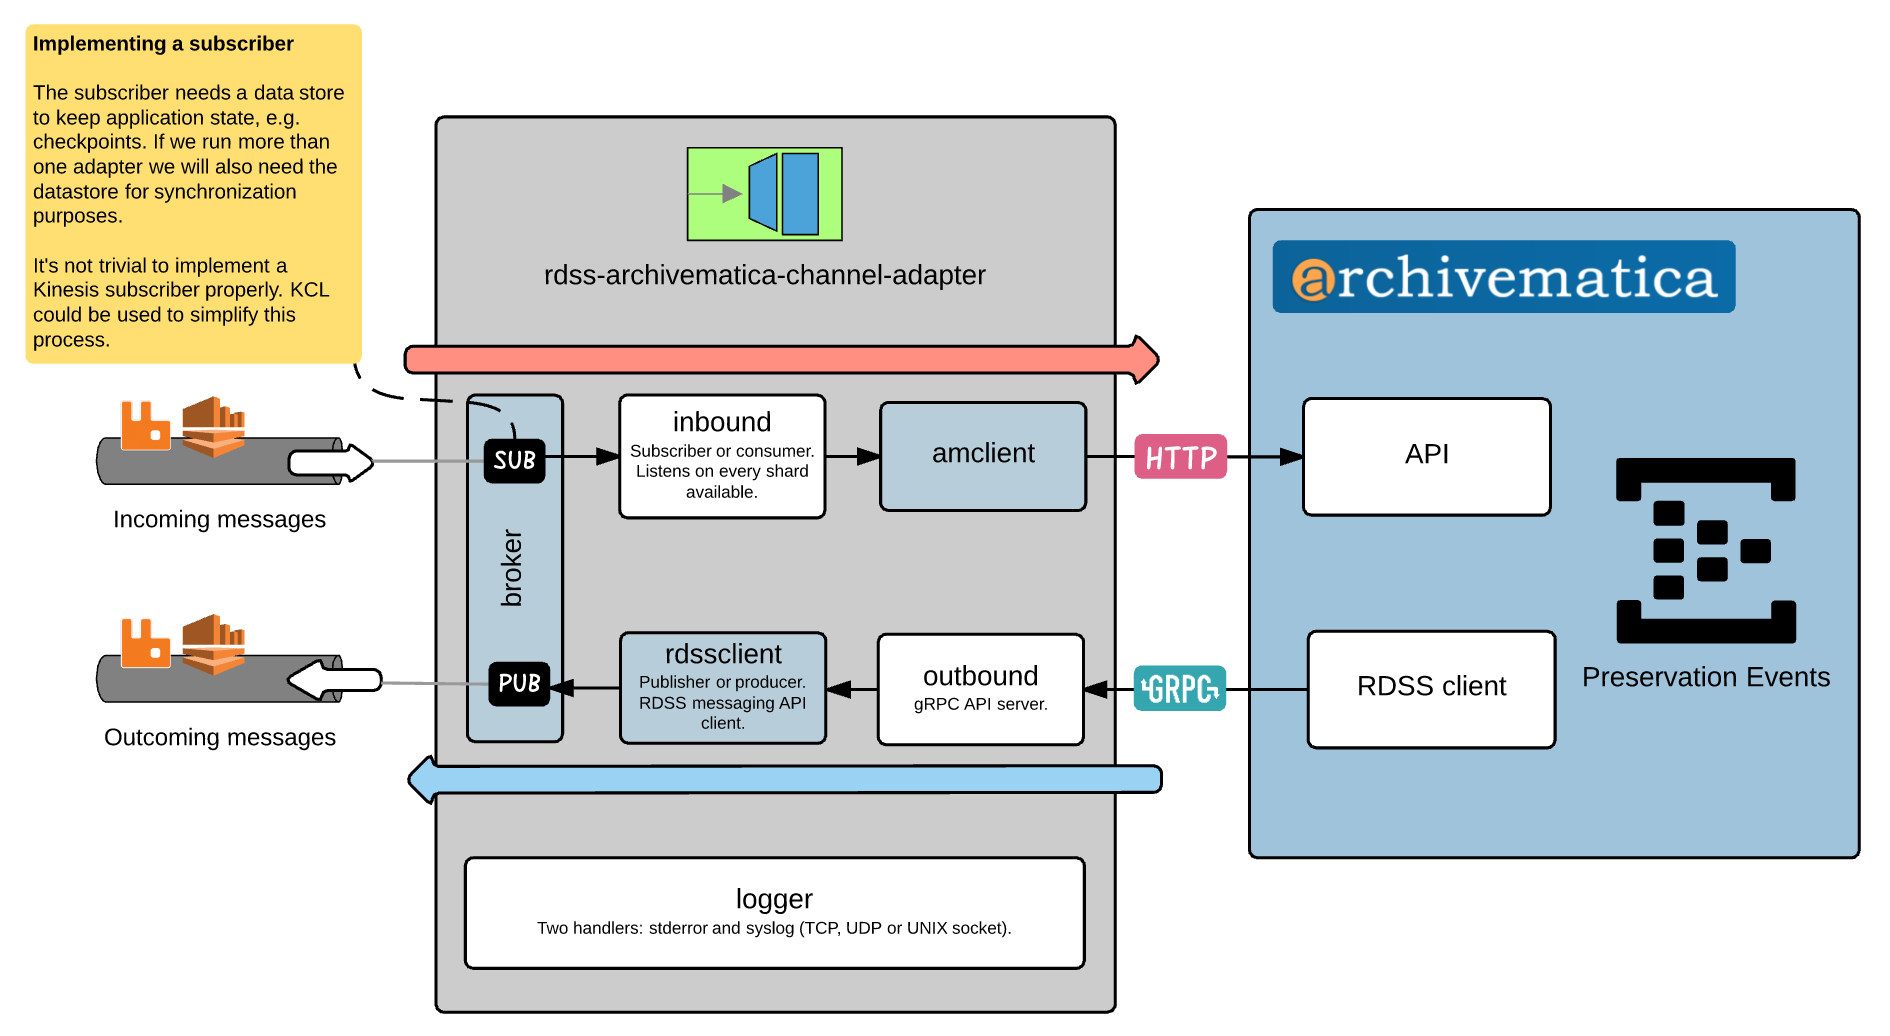
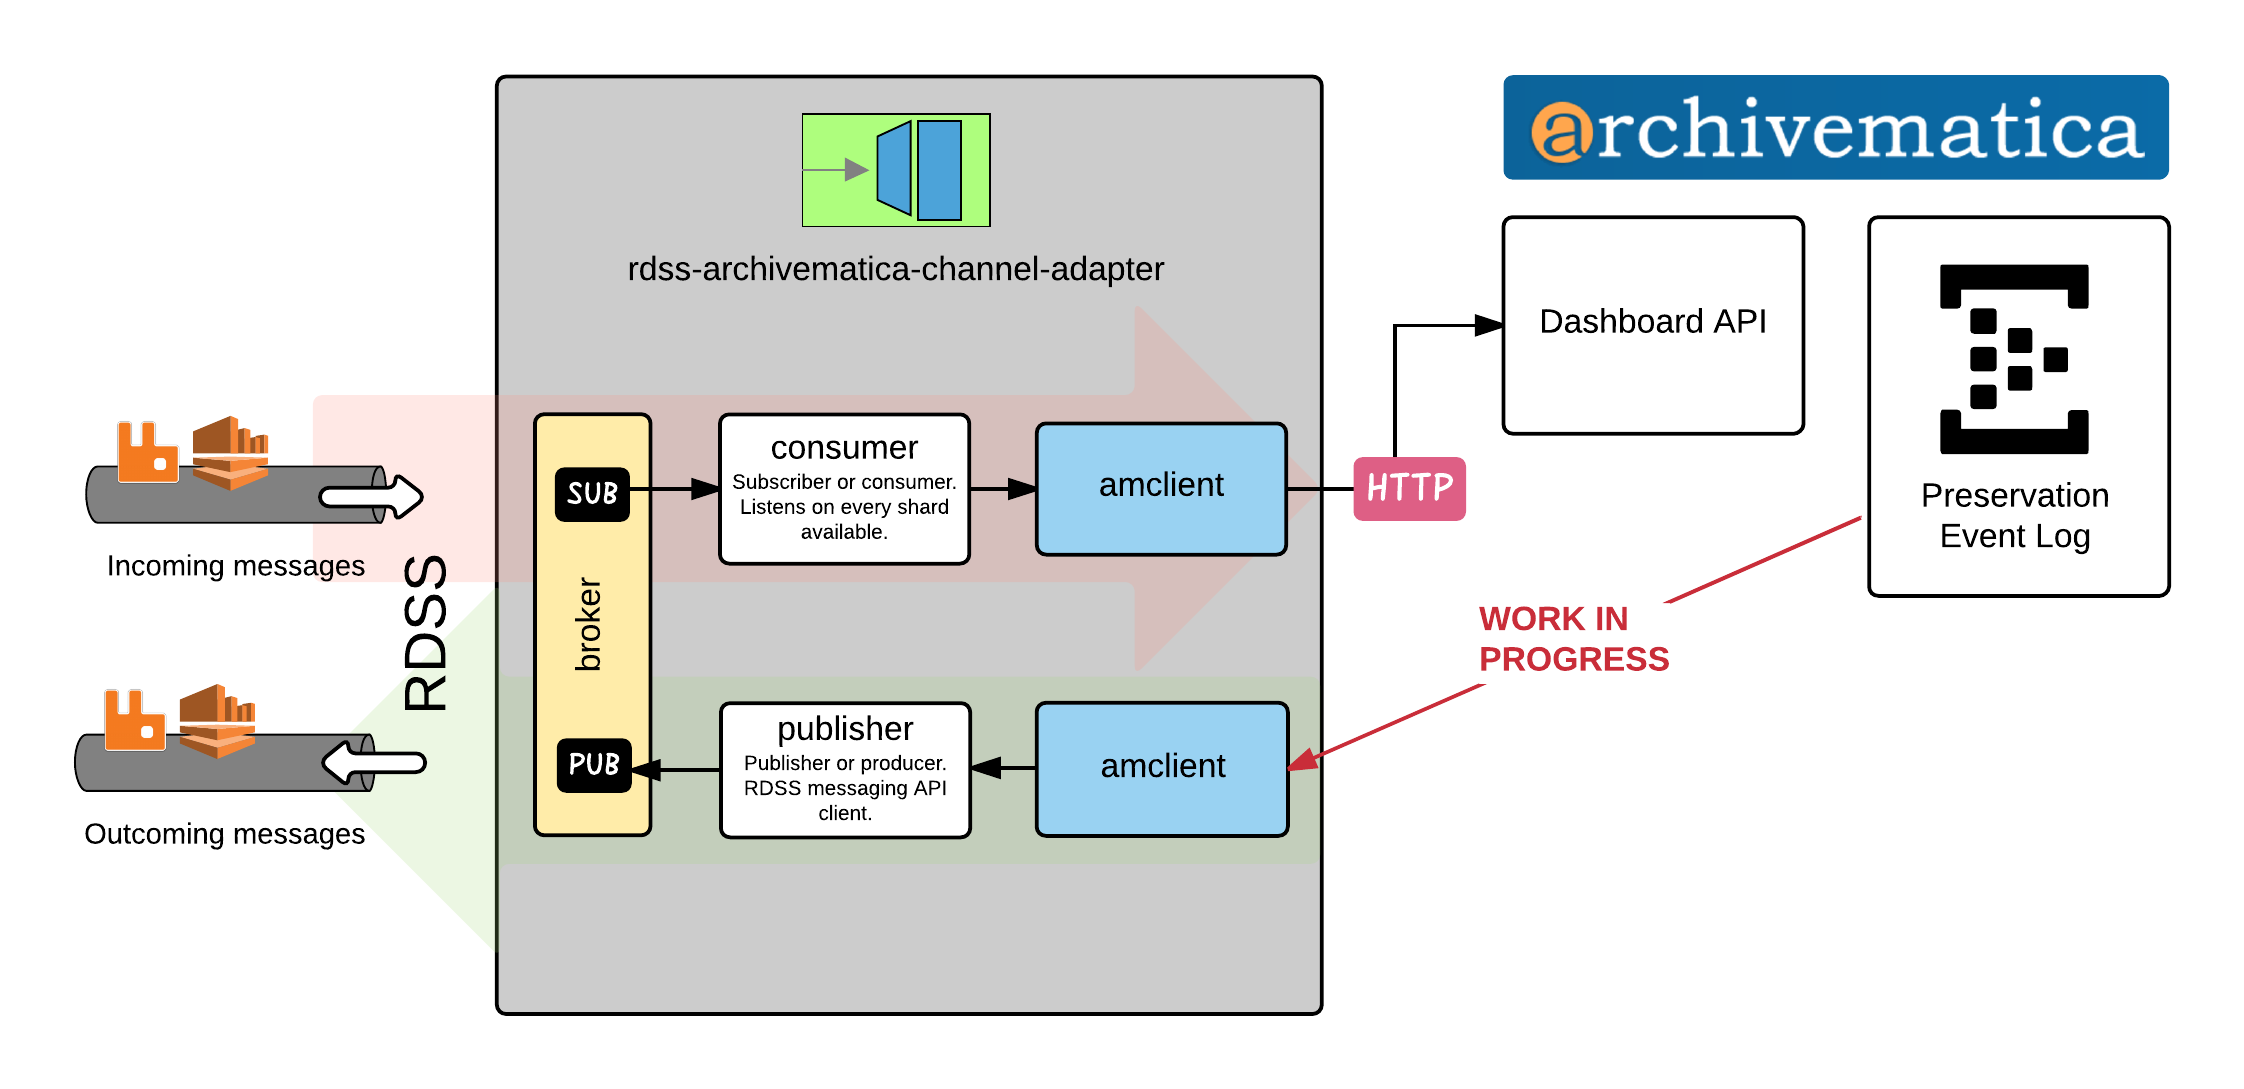
Update docs
- Add full list of configuration attributes to README file.
- Update architecture diagram.

diff --git a/cmd/root.go b/cmd/root.go
@@ -21,17 +21,17 @@ level = "INFO"
 
 [amclient]
 # URL of the Archivematica Dashboard
-# url = "https://archivematica.internal:9000"
-# user = "demo"
-# key = "eid3Aitheijoo1ohce2pho4eiDei0lah"
+url = ""
+user = ""
+key = ""
 
 [s3]
 force_path_style = false
 insecure_skip_verify = false
-# endpoint = "https://127.0.0.1:4567"
-# access_key = "..."
-# secret_key = "..."
-# region = "..."
+endpoint = ""
+access_key = ""
+secret_key = ""
+region = ""
 
 [consumer]
[1 lines of base64/hex data omitted]
@@ -39,8 +39,8 @@ archivematica_transfer_deposit_dir = "/var/archivematica/sharedDirectory/watched
 [publisher]
 listen = "0.0.0.0:8000"
 tls = false
-# tls_cert_file = "/foo.crt"
-# tls_key_file = "/foo.key"
+tls_cert_file = ""
+tls_key_file = ""
 
 [broker]
 backend = "kinesis"
@@ -54,18 +54,16 @@ error = "error"
 backend = "builtin"
 dynamodb_tls = true
 dynamodb_table = "rdss_am_messages"
-# dynamodb_endpoint = "https://127.0.0.1:4568"
-# dynamodb_region = "eu-west-2"
+dynamodb_endpoint = ""
+dynamodb_region = ""
 
 [broker.kinesis]
 app_name = "rdss_am"
 region = ""
 tls = true
-# endpoint = "https://127.0.0.1:4567"
-
-# Dynamo-specific parameters
+endpoint = ""
 tls_dynamodb = true
-# endpoint_dynamodb = "https://127.0.0.1:4568"
+endpoint_dynamodb = ""
 `
 
 var (

diff --git a/cmd/consumer/consumer.go b/cmd/consumer/consumer.go
@@ -93,10 +93,6 @@ func createBrokerClient() (*broker.Broker, error) {
 		"tls_dynamodb":      viper.GetString("broker.kinesis.tls_dynamodb"),
 		"endpoint_dynamodb": viper.GetString("broker.kinesis.endpoint_dynamodb"),
 	}
-	// Set default app name if given value is blank
-	if backendConfig["app_name"] == "" {
-		backendConfig["app_name"] = "rdss_am"
-	}
 	var opts = []backend.DialOpts{}
 	for key, value := range backendConfig {
 		opts = append(opts, backend.WithKeyValue(key, value))

diff --git a/README.md b/README.md
@@ -10,6 +10,7 @@
   - [Environment variables](#environment-variables)
   - [Configuration file](#configuration-file)
 - [Reusability](#reusability)
+- [Profiling](#profiling)
 - [Diagram](#diagram)
 
 ## Introduction
@@ -42,74 +43,217 @@ The adapter is not configurable via command-line flags. You can choose between e
 
 ### Environment variables
 
-The following is a list of supported environment variables. They need to be prefixed with the string `RDSS_ARCHIVEMATICA_ADAPTER_`, e.g. `RDSS_ARCHIVEMATICA_ADAPTER_LOGGING.LEVEL=INFO`. Notice that the dot is used to separate nested attributes.
+The following is a list of supported environment variables. They need to be prefixed with the string `RDSS_ARCHIVEMATICA_ADAPTER_`, e.g. `RDSS_ARCHIVEMATICA_ADAPTER_LOGGING.LEVEL=DEBUG`. Notice that the dot is used to separate nested attributes.
 
-|               String               |    Default     |
-| ---------------------------------- | -------------- |
-| `LOGGING.LEVEL`                    | `INFO`         |
-| `AMCLIENT.URL`                     | ``             |
-| `AMCLIENT.USER`                    | ``             |
-| `AMCLIENT.KEY`                     | ``             |
-| `PUBLISHER.LISTEN`                 | `0.0.0.0:8000` |
-| `PUBLISHER.TLS`                    | `false`        |
-| `PUBLISHER.TLS_CERT_FILE`          | ``             |
-| `PUBLISHER.TLS_KEY_FILE`           | ``             |
-| `BROKER.BACKEND`                   | `kinesis`      |
-| `BROKER.QUEUES.MAIN`               | `main`         |
-| `BROKER.QUEUES.INVALID`            | `invalid`      |
-| `BROKER.QUEUES.ERROR`              | `error`        |
-| `BROKER.KINESIS.ENDPOINT`          | ``             |
-| `BROKER.KINESIS.DYNAMODB_ENDPOINT` | ``             |
-| `BROKER.KINESIS.APP_NAME`          | `rdss_am`      |
+`LOGGING.LEVEL`
+
+> Default: `"INFO"`
+
+All severity levels defined by [RFC 5424](https://tools.ietf.org/html/rfc5424) are supported.
+
+`AMCLIENT.URL`
+
+> Default: `""`
+
+Archivematica API - URL, e.g.: `"https://my.archivematica.internal:9000`.
+
+`AMCLIENT.USER`
+
+> Default: `""`
+
+Archivematica API - Username, e.g.:  `"demo"`.
+
+`AMCLIENT.KEY`
+
+> Default: `""`
+
+Archivematica API - Key, e.g.: `"eid3Aitheijoo1ohce2pho4eiDei0lah"`.
+
+`S3.FORCE_PATH_STYLE`
+
+> Default: `false`
+
+When set to `true`, the bucket name is always left in the request URL and never moved to the host as a sub-domain.
+
+`S3.INSECURE_SKIP_VERIFY`
+
+> Default: `false`
+
+When set to `true`, the client will skip the TLS verification process.
+
+`S3.ENDPOINT`
+
+> Default: `""`
+
+When set to a non-empty string, it's used as the AWS service endpoint, e.g.: `"https://127.0.0.1:4567"`.
+
+`S3.ACCESS_KEY`
+
+> Default: `""`
+
+When set to a non-empty string, it's combined with `S3.SECRET_KEY` to set up the static credential object.
+
+`S3.SECRET_KEY`
+
+> Default: `""`
+
+When set to a non-empty string, it's combined with `S3.ACCESS_KEY` to set up the static credential object.
+
+`S3.REGION`
+
+> Default: `""`
+
+AWS Region. If empty, the AWS SDK will throw an error. E.g.: `eu-west-2`.
+
+`CONSUMER.ARCHIVEMATICA_TRANSFER_DEPOSIT_DIR`
+
[1 lines of base64/hex data omitted]
+
+Location of the `standardTransfer` directory of the Archivematica pipeline.
+
+`PUBLISHER.LISTEN`
+
+> Default: `"0.0.0.0:8000"`
+
+Address of the gRPC server found in the publisher.
+
+`PUBLISHER.TLS`
+
+> Default: `false`
+
+When set to `true`, the gRPC server is built with the TLS integration enabled which is helpful if you want your clients to authenticate the server and encrypt all the data exchanged between the clients and the server.
+
+`PUBLISHER.TLS_CERT_FILE`
+
+> Default: `""`
+
+When `PUBLISHER.TLS` is set to `true`, this is used to describe the location of the public key of the X509 key pair. The file must contain PEM encoded data and it may contain intermediate certificates following the leaf certificate to form a certificate chain.
+
+`PUBLISHER.TLS_KEY_FILE`
+
+> Default: `""`
+
+When `PUBLISHER.TLS` is set to `true`, this is used to describe the location of the private key of the X509 key pair. The file must contain PEM encoded data.
+
+`BROKER.BACKEND`
+
+> Default: `"kinesis"`
+
+The name of the backend used as the RDSS broker. `"kinesis"` is the backend currently supported in addition to "backendmock"`, developed for testing purposes only.
+
+`BROKER.QUEUES.MAIN`
+
+> Default: `"main"`
+
+Name of the main message queue.
+
+`BROKER.QUEUES.INVALID`
+
+> Default: `"invalid"`
+
+Name of the invalid message queue.
+
+`BROKER.QUEUES.ERROR`
+
+> Default: `"error"`
+
+Name of the error message queue.
+
+`BROKER.REPOSITORY.BACKEND`
+
+> Default: `"builtin"`
+
+The [Local Data Repository](https://github.com/JiscRDSS/rdss-message-api-docs#local-data-repository) backend. The default (`"builtin"`) is a simple non-persisted hash in memory. A better alternative that can be shared by multiple consumers is the `dynamodb` backend which uses a single DynamoDB table.
+
+`BROKER.REPOSITORY.DYNAMODB_TLS`
+
+> Default: `true`
+
+When set to `true`, the client uses the TLS protocol to communicate securely with the server. If you are using a clone of DynamoDB like dynalite you may prefer to have it disabled.
+
+`BROKER.REPOSITORY.DYNAMODB_TABLE`
+
+> Default: ``""`
+
+The DynamoDB table name which must conform the [naming rules](http://docs.aws.amazon.com/amazondynamodb/latest/developerguide/HowItWorks.NamingRulesDataTypes.html#HowItWorks.NamingRules).
+
+`BROKER.REPOSITORY.DYNAMODB_ENDPOINT`
+
+> Default: `""`
+
+When set to a non-empty string, it's used as the AWS service endpoint, e.g.: `"http://127.0.0.1:9999"`.
+
+`BROKER.REPOSITORY.DYNAMODB_REGION`
+
+> Default: `""`
+
+AWS Region. If empty, the AWS SDK will throw an error. E.g.: `eu-west-2`.
+
+`BROKER.KINESIS.APP_NAME`
+
+> Default: `"rdss_am"`
+
+This is used to prefix the names of the DynamoDB tables used to share state across multiple consumers. If you are setting up more than one consumer remember to define the same value in all of them.
+
+`BROKER.KINESIS.REGION` 
+
+> Default: `""`
+
+AWS Region. If empty, the AWS SDK will throw an error. E.g.: `eu-west-2`.
+
+`BROKER.KINESIS.TLS`
+
+> Default: `true`
+
+When set to `true`, the client uses the TLS protocol to communicate securely with the server. If you are using a clone of DynamoDB like dynalite you may prefer to have it disabled.
+
+`BROKER.KINESIS.ENDPOINT`
+
+> Default: ``
+
+When set to a non-empty string, it's used as the AWS service endpoint, e.g.: `"http://127.0.0.1:4567"`.
+
+`BROKER.KINESIS.TLS_DYNAMODB`
+
+> Default: `true`
+
+When set to `true`, the client uses the TLS protocol to communicate securely with the server. If you are using a clone of DynamoDB like dynalite you may prefer to have it disabled.
+
+`BROKER.KINESIS.ENDPOINT_DYNAMODB`
+
+> Default: ``
+
+When set to a non-empty string, it's used as the AWS service endpoint, e.g.: `"http://127.0.0.1:9999"`.
+
 
 ### Configuration file
 
-The adapter will try to read config from `$HOME/.rdss-archivematica-channel-adapter.toml` and `/etc/archivematica/rdss-archivematica-channel-adapter.toml`. Alternatively, you can pass a different location with the global `--config string` flag.
+The adapter will try to read config in [TOML format](https://en.wikipedia.org/wiki/TOML) from `$HOME/.rdss-archivematica-channel-adapter.toml` and `/etc/archivematica/rdss-archivematica-channel-adapter.toml`. Alternatively, you can pass a different location with the global `--config string` flag.
 
 Notice how the environment variables in the previous section map to the nested configuration sections in the configuration file, e.g.:
 
 ```toml
-# RDSS Archivematica Channel Adapter
-
 [logging]
 level = "INFO"
 
 [amclient]
-url = "https://archivematica.internal:9000"
+url = "http://dadada"
 user = "demo"
-key = "eid3Aitheijoo1ohce2pho4eiDei0lah"
-
-[publisher]
-listen = "0.0.0.0:8000"
-tls = false
-tls_cert_file = "/foo.crt"
-tls_key_file = "/foo.key"
-
-[broker]
-backend = "kinesis"
-
-    [broker.kinesis]
-    # This adapter uses aws-sdk-go. The credentials must be defined using the
-    # canonical environment variables, read more at https://goo.gl/xsWyS9.
-
-    # The name of the Amazon Kinesis stream.
-    stream = "rdss-archivematica"
-
-    # Kinesis endpoint. It can be used when you want the client to speak to a
-    # server not run by AWS, e.g. a local kinesalite instance used during testing.
-    #endpoint = "https://127.0.0.1:4567"
+key = "12345"
 ```
 
 ## Code reusability
 
 A few Go packages found in this repository are agnostic to Archivematica and could be used by other vendors:
 
-- `github.com/JiscRDSS/rdss-archivematica-channel-adapter/amclient` is a Archivematica HTTP API client.
+- `github.com/JiscRDSS/rdss-archivematica-channel-adapter/amclient` is an Archivematica HTTP API client.
 - `github.com/JiscRDSS/rdss-archivematica-channel-adapter/broker` is a RDSS client conforming to the RDSS messaging API. Both `consumer` and `publisher` packages in this repository are use cases. If you want to know more, there is a comprehensive example in [broker_test.go](broker/broker_test.go).
 - `github.com/JiscRDSS/rdss-archivematica-channel-adapter/s3` is a small S3 wrapper used to download files.
 
-## Diagram
+## Profiling
 
-This diagram is not up to date but it's close to the current design:
+Both `consumer` and `publisher` serve Go runtime profiling data in the format expected by the `pprof` visualization tool - they listen on `0.0.0.0:6060`. Learn how to use the [tool](https://golang.org/pkg/net/http/pprof/).
+
+## Diagram
 
 ![RDSS Archivematica Channel Adapter Diagram](hack/diagram.png)
